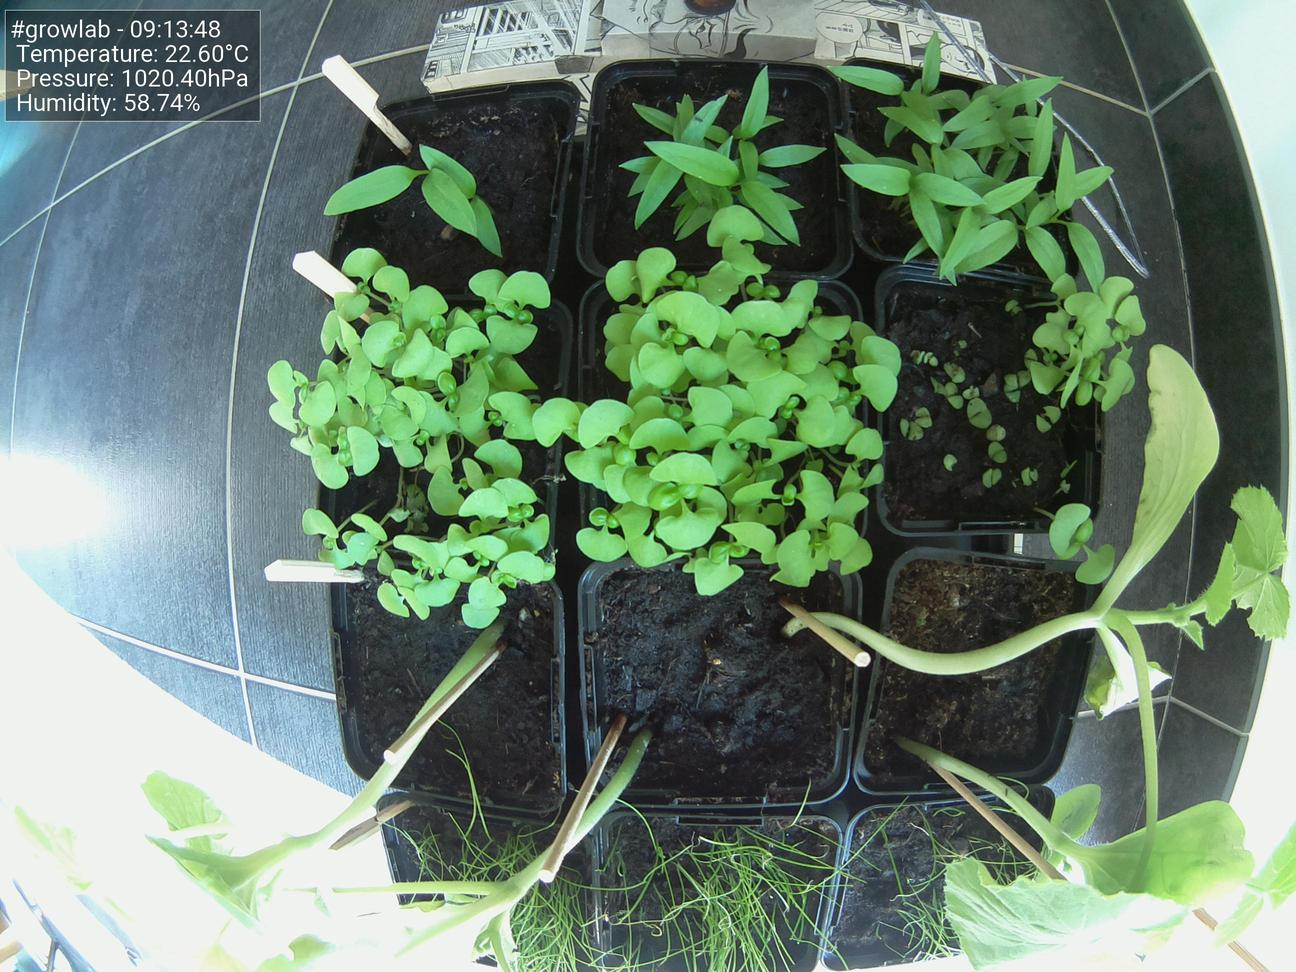
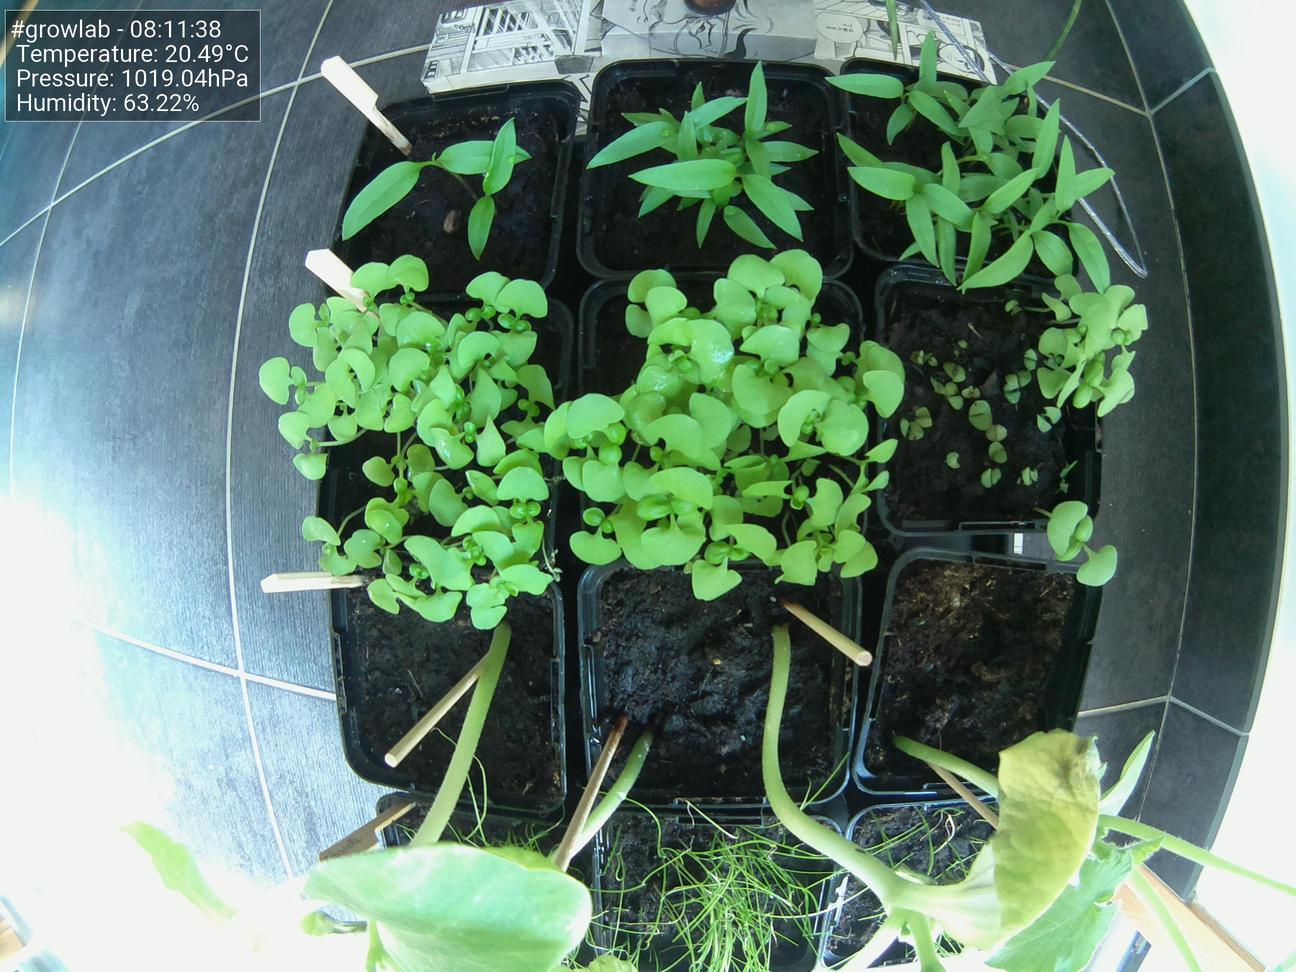
Update images at Wed  9 Jun 08:11:47 CEST 2021

diff --git a/index.html b/index.html
@@ -47,19 +47,19 @@
                         <tbody>
                             <tr>
                                 <td>Time</td>
-                                <td>09:13:48</td>
+                                <td>08:11:38</td>
                             </tr>
                             <tr>
                                 <td>Temperature</td>
-                                <td>22.60°C</td>
+                                <td>20.49°C</td>
                             </tr>
                             <tr>
                                 <td>Humidity</td>
-                                <td>58.74%</td>
+                                <td>63.22%</td>
                             </tr>
                             <tr>
                                 <td>Pressure</td>
-                                <td>1020.40hPa</td>
+                                <td>1019.04hPa</td>
                             </tr>
                         </tbody>
                     </table>
@@ -67,7 +67,7 @@
 
                 <h5>Latest image</h5>
                 <div style="width: 85%;">
-                            <img class="figure-img img-fluid rounded" src="./preview.jpg?uid=1623136437.2331367">
+                            <img class="figure-img img-fluid rounded" src="./preview.jpg?uid=1623219106.629758">
                 </div>
             </div>
         </div>
